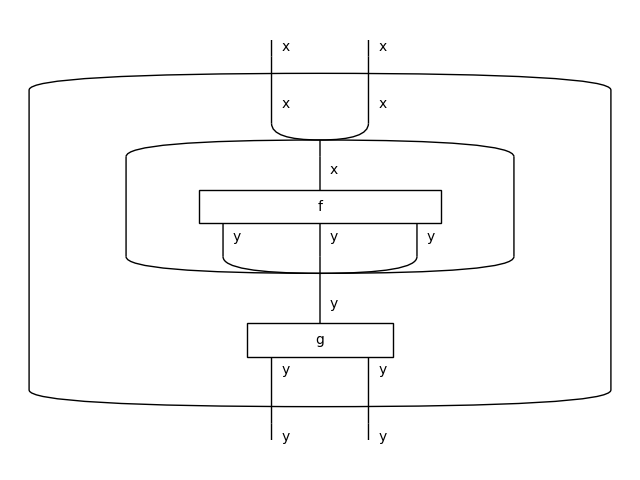
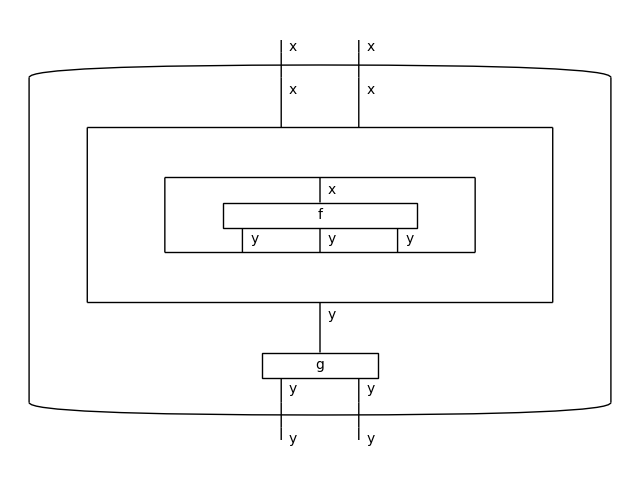
Bubbles with multiple args (#279)
* Bubbles with multiple args

* Drawing multiple args

* Frame drawing

* Align slot boundaries

diff --git a/discopy/cat.py b/discopy/cat.py
@@ -342,9 +342,9 @@ class Arrow(Composable[Ob]):
         """
         return cls.sum_factory((), dom, cod)
 
-    def bubble(self, **params) -> Bubble:
+    def bubble(self, *args, **kwargs) -> Bubble:
         """ Unary operator on homsets. """
-        return self.bubble_factory(self, **params)
+        return self.bubble_factory(self, *args, **kwargs)
 
     @property
     def free_symbols(self) -> "set[sympy.Symbol]":
@@ -686,47 +686,71 @@ class Bubble(Box):
     objects :code:`dom` and :code:`cod`.
 
     Parameters:
-        arg : The arrow inside the bubble.
+        args : The arrows inside the bubble.
         dom : The domain of the bubble, default is that of :code:`other`.
         cod : The codomain of the bubble, default is that of :code:`other`.
+        name (str) : An optional name for the bubble.
+        method (str) : The method to call when a functor is applied to it.
+        kwargs : Passed to the `__init__` of :class:`Box`.
     """
-    def __init__(self, arg: Arrow, dom: Ob = None, cod: Ob = None):
-        dom = arg.dom if dom is None else dom
-        cod = arg.cod if cod is None else cod
-        self.arg = arg
-        Box.__init__(self, "Bubble", dom, cod)
+    def __init__(self, *args: Arrow, dom: Ob = None, cod: Ob = None,
+                 name="Bubble", method="bubble", **kwargs):
+        dom, = set(arg.dom for arg in args) if dom is None else (dom, )
+        cod, = set(arg.cod for arg in args) if cod is None else (cod, )
+        self.args, self.method = args, method
+        Box.__init__(self, name, dom, cod, **kwargs)
+
+    @property
+    def arg(self):
+        """ The arrow inside the bubble if there is exactly one. """
+        if len(self.args) == 1:
+            return self.args[0]
+        raise ValueError(f"{self} has multiple args.")
 
     @property
     def is_id_on_objects(self):
         """ Whether the bubble is identity on objects. """
-        return (self.dom, self.cod) == (self.arg.dom, self.arg.cod)
+        return len(self.args) == 1 and (
+            self.dom, self.cod) == (self.arg.dom, self.arg.cod)
+
+    def __eq__(self, other):
+        if isinstance(other, Bubble):
+            return all(getattr(self, x) == getattr(other, x) for x in (
+                "args", "dom", "cod", "name", "method"))
+        return not isinstance(other, Box) and super().__eq__(other)
+
+    def __hash__(self):
+        return hash(tuple(getattr(self, x) for x in [
+            "args", "dom", "cod", "name", "method"]))
 
     def __str__(self):
-        str_args = '' if self.is_id_on_objects\
-            else f'dom={self.dom}, cod={self.cod}'
-        return f"({self.arg}).bubble({str_args})"
+        str_args = ",".join(map(str, self.args))
+        str_dom_cod = '' if self.is_id_on_objects else (
+            f'dom={self.dom}, cod={self.cod}')
+        return f"({str_args}).bubble({str_dom_cod})"
 
     def __repr__(self):
-        str_args = repr(self.arg) if self.is_id_on_objects else\
-            f"{repr(self.arg)}, dom={repr(self.dom)}, cod={repr(self.cod)}"
-        return f"{factory_name(type(self))}({str_args})"
+        repr_args = ", ".join(map(repr, self.args))
+        repr_dom_cod = "" if self.is_id_on_objects else (
+            f", dom={repr(self.dom)}, cod={repr(self.cod)}")
+        return factory_name(type(self)) + (f"({repr_args}{repr_dom_cod})")
 
     @property
     def free_symbols(self):
-        return super().free_symbols.union(self.arg.free_symbols)
+        return super().free_symbols.union(*[f.free_symbols for f in self.args])
 
     def to_tree(self):
         return {
             'factory': factory_name(type(self)),
-            'arg': self.arg.to_tree(),
+            'args': [f.to_tree() for f in self.args],
             'dom': self.dom.to_tree(),
             'cod': self.cod.to_tree()}
 
     @classmethod
     def from_tree(cls, tree):
-        dom, cod, arg = map(from_tree, (
-            tree['dom'], tree['cod'], tree['arg']))
-        return cls(arg=arg, dom=dom, cod=cod)
+        args = [tree['arg']] if 'args' not in tree else tree['args']
+        dom, cod = map(from_tree, (tree['dom'], tree['cod']))
+        return cls(*map(from_tree, args), dom=dom, cod=cod)
 
 
 @dataclass
@@ -868,9 +892,10 @@ class Functor(Composable[Category]):
         if isinstance(other, Sum):
             return sum(map(self, other.terms),
                        self.cod.ar.zero(self(other.dom), self(other.cod)))
-        if isinstance(other, Bubble) and hasattr(self.cod.ar, "bubble"):
-            return self(other.arg).bubble(
-                dom=self(other.dom), cod=self(other.cod))
+        if isinstance(other, Bubble) and hasattr(self.cod.ar, other.method):
+            dom, cod = map(self, (other.dom, other.cod))
+            return getattr(self.cod.ar, other.method)(
+                *map(self, other.args), dom=dom, cod=cod)
         if isinstance(other, Box) and other.is_dagger:
             return self(other.dagger()).dagger()
         if isinstance(other, Box):

diff --git a/discopy/monoidal.py b/discopy/monoidal.py
@@ -957,39 +957,86 @@ class Bubble(cat.Bubble, Box):
     types :code:`dom` and :code:`cod`.
 
     Parameters:
-        arg : The diagram inside the bubble.
+        args : The diagrams inside the bubble.
         dom : The domain of the bubble, default is that of :code:`other`.
         cod : The codomain of the bubble, default is that of :code:`other`.
+        drawing_name (str) : The name of the bubble when drawing it.
+        draw_as_bubble (bool) : Whether to draw as a bubble or as a frame.
 
     Examples
     --------
     >>> x, y = Ty('x'), Ty('y')
-    >>> f, g = Box('f', x, y ** 3), Box('g', y, y @ y)
+    >>> f, g, h = Box('f', x, y ** 3), Box('g', y, y @ y), Box('h', x, y)
     >>> d = (f.bubble(dom=x @ x, cod=y) >> g).bubble()
     >>> d.draw(path='docs/_static/monoidal/bubble-example.png')
 
     .. image:: /_static/monoidal/bubble-example.png
         :align: center
+
+    >>> b = Bubble(f, g, h, dom=x, cod=y @ y)
+    >>> b.draw(path='docs/_static/monoidal/bubble-multiple-args.png')
+
+    .. image:: /_static/monoidal/bubble-multiple-args.png
+        :align: center
     """
     __ambiguous_inheritance__ = (cat.Bubble, )
 
-    def __init__(self, arg: Diagram, dom: Ty = None, cod: Ty = None, **params):
-        self.drawing_name = params.get("drawing_name", "")
-        cat.Bubble.__init__(self, arg, dom, cod)
-        Box.__init__(self, self.name, self.dom, self.cod, data=self.data)
+    def __init__(
+            self, *args: Diagram, dom: Ty = None, cod: Ty = None, **kwargs):
+        cat.Bubble.__init__(self, *args, dom=dom, cod=cod)
+        self.drawing_name = kwargs.pop("drawing_name", "")
+        self.draw_as_bubble = kwargs.pop(
+            "draw_as_bubble", (len(args) == 1
+                               and len(self.arg.dom) == len(self.dom)
+                               and len(self.arg.cod) == len(self.cod)))
+        Box.__init__(self, self.name, self.dom, self.cod, **kwargs)
 
-    def to_drawing(self):
+    def to_bubble_drawing(self):
         dom, cod = self.dom.to_drawing(), self.cod.to_drawing()
         argdom, argcod = self.arg.dom.to_drawing(), self.arg.cod.to_drawing()
         left, right = Ty(self.drawing_name), Ty("")
         left.inside[0].always_draw_label = True
         _open = Box("_open", dom, left @ argdom @ right).to_drawing()
         _close = Box("_close", left @ argcod @ right, cod).to_drawing()
-        _open.draw_as_wires = _close.draw_as_wires = True
-        # Wires can go straight only if types have the same length.
-        _open.bubble_opening = len(dom) == len(argdom)
-        _close.bubble_closing = len(cod) == len(argcod)
+        if len(dom) == len(argdom) and len(cod) == len(argcod):
+            _open.bubble_opening = _close.bubble_closing = True
+            _open.draw_as_wires = _close.draw_as_wires = True
+        else:
+            _open.frame_slot_opening = _close.frame_slot_closing = True
         return _open >> left @ self.arg.to_drawing() @ right >> _close
+
+    def to_frame_drawing(self):
+        dom, cod = self.dom.to_drawing(), self.cod.to_drawing()
+        if self.args == 1:
+            inside = self.arg.to_drawing().bubble(
+                draw_as_bubble=True, dom=Ty(), cod=Ty()).to_drawing()
+        else:
+            left = right = Ty('')
+            first_arg = self.args[0].to_drawing()
+            last_arg = self.args[-1].to_drawing()
+            open_first_slot = Box(
+                "open", Ty(), left @ first_arg.dom @ right).to_drawing()
+            open_first_slot.frame_slot_opening = True
+            inside = open_first_slot >> left @ first_arg @ right
+            for f, g in zip(self.args, self.args[1:]):
+                b_dom, b_cod = [
+                    left @ x.to_drawing() @ right for x in [f.cod, g.dom]]
+                b = Box("boundary", b_dom, b_cod)
+                b.frame_slot_boundary = True
+                inside >>= b.to_drawing() >> left @ g.to_drawing() @ right
+            close_last_slot = Box(
+                "close", left @ last_arg.cod @ right, Ty()).to_drawing()
+            close_last_slot.frame_slot_closing = True
+            inside >>= close_last_slot
+        left, right = Ty(self.drawing_name), Ty("")
+        _open = Box("_open", dom, left @ right).to_drawing()
+        _close = Box("_close", left @ right, cod).to_drawing()
+        _open.frame_opening = _close.frame_closing = True
+        return _open >> left @ inside @ right >> _close
+
+    def to_drawing(self):
+        return self.to_bubble_drawing(
+            ) if self.draw_as_bubble else self.to_frame_drawing()
 
 
 class Category(cat.Category):

diff --git a/discopy/drawing/legacy.py b/discopy/drawing/legacy.py
@@ -99,27 +99,38 @@ def diagram2nx(diagram):
     def add_box(scan, box, off, depth, x_pos):
         bubble_opening = getattr(box, "bubble_opening", False)
         bubble_closing = getattr(box, "bubble_closing", False)
+        frame_opening = getattr(box, "frame_opening", False)
+        frame_closing = getattr(box, "frame_closing", False)
+        frame_slot_boundary = getattr(box, "frame_slot_boundary", False)
         bubble = bubble_opening or bubble_closing
         node = Node("box", box=box, depth=depth)
         add_node(node, (x_pos, len(diagram) - depth - .5))
         for i, obj in enumerate(box.dom.inside):
+            y_pos = len(diagram) - depth - (.75 if frame_opening else .25)
             wire, position = Node("dom", obj=obj, i=i, depth=depth), (
-                pos[scan[off + i]][0], len(diagram) - depth - .25)
+                pos[scan[off + i]][0], y_pos)
             add_node(wire, position)
             graph.add_edge(scan[off + i], wire)
             if not bubble or bubble_closing and i in [0, len(box.dom) - 1]:
                 graph.add_edge(wire, node)
         for i, obj in enumerate(box.cod.inside):
+            y_pos = len(diagram) - depth - (.25 if frame_closing else .75)
+            align_wires = len(box.dom) == len(box.cod) and not frame_closing
             position = (
-                pos[scan[off + i]][0] if len(box.dom) == len(box.cod)
+                pos[scan[off + i]][0] if align_wires
                 else pos[scan[off + i + 1]][0] if bubble_closing
-                else x_pos - len(box.cod[1:]) / 2 + i,
-                len(diagram) - depth - .75)
+                else x_pos - len(box.cod[1:]) / 2 + i, y_pos)
+            if frame_slot_boundary and i == 0:
+                position = (pos[scan[off]][0], position[1])
+            if frame_slot_boundary and i == len(box.cod[1:]):
+                position = (pos[scan[off + len(box.dom[1:])]][0], position[1])
+            elif frame_opening and i in (0, len(box.cod[1:])):
+                position = (position[0] + (.25 if i else -.25), position[1])
             wire = Node("cod", obj=obj, i=i, depth=depth)
             add_node(wire, position)
             if not bubble or bubble_opening and i in [0, len(box.cod) - 1]:
                 graph.add_edge(node, wire)
-        if bubble_opening or bubble_closing:
+        if bubble_opening or bubble_closing:  # Make wires go through bubbles.
             source_ty, target_ty = (box.dom, box.cod[1:-1]) if bubble_opening\
                 else (box.dom[1:-1], box.cod)
             for i, (source_obj, target_obj) in enumerate(zip(
@@ -490,6 +501,11 @@ def draw(diagram, **params):
     diagram = diagram.to_drawing()
 
     drawing_methods = [
+        ("frame_opening", draw_frame_opening),
+        ("frame_closing", draw_frame_closing),
+        ("frame_slot_boundary", draw_frame_boundary),
+        ("frame_slot_opening", draw_frame_opening),
+        ("frame_slot_closing", draw_frame_closing),
         ("draw_as_brakets", draw_brakets),
         ("draw_as_controlled", draw_controlled_gate),
         ("draw_as_discards", draw_discard),
@@ -771,6 +787,29 @@ class Equation:
 
     def __bool__(self):
         return all(term == self.terms[0] for term in self.terms)
+
+
+def draw_frame_opening(backend, positions, node, **params):
+    box, depth = node.box, node.depth
+    obj_left, obj_right = box.cod.inside[0], box.cod.inside[-1]
+    left = Node("cod", obj=obj_left, depth=depth, i=0)
+    right = Node("cod", obj=obj_right, depth=depth, i=len(box.cod[1:]))
+    backend.draw_wire(positions[left], positions[right])
+    return backend
+
+
+def draw_frame_closing(backend, positions, node, **params):
+    box, depth = node.box, node.depth
+    obj_left, obj_right = box.dom.inside[0], box.dom.inside[-1]
+    left = Node("dom", obj=obj_left, depth=depth, i=0)
+    right = Node("dom", obj=obj_right, depth=depth, i=len(box.dom[1:]))
+    backend.draw_wire(positions[left], positions[right])
+    return backend
+
+
+def draw_frame_boundary(backend, positions, node, **params):
+    backend = draw_frame_closing(backend, positions, node, **params)
+    return draw_frame_opening(backend, positions, node, **params)
 
 
 def draw_discard(backend, positions, node, **params):

diff --git a/test/syntax/feedback.py b/test/syntax/feedback.py
@@ -59,21 +59,19 @@ def test_walk():
     assert F(walk).unroll(9).now()[:10] == (0, -1, -2, -1, 0, 1, 0, 1, 2, 1)
     assert F(walk).unroll(9).now()[:10] == (0, -1, 0, 1, 0, 1, 0, -1, 0, -1)
 
-
-X = Ty('X')
-fby, wait = FollowedBy(X), Swap(X, X.d).feedback()
-zero, one = Box('0', Ty(), X), Box('1', Ty(), X)
-copy, plus = Copy(X), Box('+', X @ X, X)
-
-
-@Diagram.feedback
-@Diagram.from_callable(X.d, X @ X)
-def fib(x):
-    y = fby(zero.head(), plus.d(fby.d(one.head.d(), wait.d(x)), x))
-    return (y, y)
+def test_fibonacci():
+    X = Ty('X')
+    fby, wait = FollowedBy(X), Swap(X, X.d).feedback()
+    zero, one = Box('0', Ty(), X), Box('1', Ty(), X)
+    copy, plus = Copy(X), Box('+', X @ X, X)
 
 
-def test_fibonacci_eq():
+    @Diagram.feedback
+    @Diagram.from_callable(X.d, X @ X)
+    def fib(x):
+        y = fby(zero.head(), plus.d(fby.d(one.head.d(), wait.d(x)), x))
+        return (y, y)
+
     with Diagram.hypergraph_equality:
         assert fib == (
             copy.d >> one.head.d @ wait.d @ X.d
@@ -82,8 +80,6 @@ def test_fibonacci_eq():
                 >> zero.head @ X.d
                 >> fby >> copy).feedback()
 
-
-def test_fibonacci_functor():
     F = Functor(
         ob={X: (int, )},
         ar={zero: lambda: 0,

diff --git a/discopy/feedback.py b/discopy/feedback.py
@@ -478,7 +478,7 @@ class Head(monoidal.Bubble, Box):
     def __init__(self, arg: Diagram, time_step=0, _attr="head"):
         dom, cod = (
             getattr(x, _attr).delay(time_step) for x in [arg.dom, arg.cod])
-        monoidal.Bubble.__init__(self, arg, dom, cod)
+        monoidal.Bubble.__init__(self, arg, dom=dom, cod=cod)
         Box.__init__(self, f"({arg}).{_attr}", self.dom, self.cod, time_step)
 
     delay, reset, __repr__ = HeadOb.delay, HeadOb.reset, HeadOb.__repr__
@@ -524,7 +524,7 @@ class Feedback(monoidal.Bubble, Box):
         if arg.cod != cod @ mem:
             raise AxiomError
         self.mem, self.left = mem, left
-        monoidal.Bubble.__init__(self, arg, dom, cod)
+        monoidal.Bubble.__init__(self, arg, dom=dom, cod=cod)
         Box.__init__(self, self.name, dom, cod)
         mem_name = "" if len(mem) == 1 else f"mem={mem}"
         self.name = f"({self.arg}).feedback({mem_name})"

diff --git a/discopy/closed.py b/discopy/closed.py
@@ -303,7 +303,7 @@ class Curry(monoidal.Bubble, Box):
         left : Whether to curry on the left or right.
     """
     def __init__(self, arg: Diagram, n=1, left=True):
-        self.arg, self.n, self.left = arg, n, left
+        self.n, self.left = n, left
         name = f"Curry({arg}, {n}, {left})"
         if left:
             dom = arg.dom[:len(arg.dom) - n]
@@ -311,7 +311,7 @@ class Curry(monoidal.Bubble, Box):
         else:
             dom, cod = arg.dom[n:], arg.dom[:n] >> arg.cod
         monoidal.Bubble.__init__(
-            self, arg, dom, cod, drawing_name="$\\Lambda$")
+            self, arg, dom=dom, cod=cod, drawing_name="$\\Lambda$")
         Box.__init__(self, name, dom, cod)
 
 

diff --git a/discopy/config.py b/discopy/config.py
@@ -17,6 +17,11 @@ DRAWING_ATTRIBUTES = {
     "draw_as_discards": lambda _: False,
     "draw_as_measures": lambda _: False,
     "draw_as_controlled": lambda _: False,
+    "frame_opening": lambda _: False,
+    "frame_closing": lambda _: False,
+    "frame_slot_boundary": lambda _: False,
+    "frame_slot_opening": lambda box: box.frame_slot_boundary,
+    "frame_slot_closing": lambda box: box.frame_slot_boundary,
     "shape": lambda box:
         "circle" if getattr(box, "draw_as_spider", False) else None,
     "color": lambda box:

diff --git a/discopy/traced.py b/discopy/traced.py
@@ -180,7 +180,7 @@ class Trace(Box, monoidal.Bubble):
         name = f"Trace({arg}" + ", left=True)" if left else ")"
         dom, cod = (arg.dom[1:], arg.cod[1:]) if left\
             else (arg.dom[:-1], arg.cod[:-1])
-        monoidal.Bubble.__init__(self, arg, dom, cod)
+        monoidal.Bubble.__init__(self, arg, dom=dom, cod=cod)
         Box.__init__(self, name, dom, cod)
 
     def __repr__(self):
